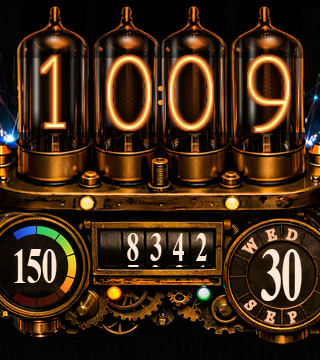
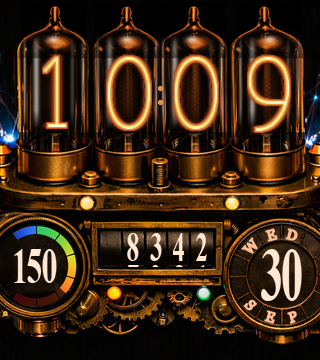
fix(ciq): every digit centred on its tube's electrode stem
"The 2nd '0' should center on the stem below it" - and measuring all four
against their stems showed two digits off, not one. The stem's bright cap is
the artwork feature that marks a tube's axis; measured on the frame in a narrow
band clear of the digit's own glow (y 152..160), its centre sits at 56.2 / 128.4
/ 195.6 / 266.9 against digits at 53 / 129 / 191 / 269.

So TIME_X goes 53 -> 55 (tube 1) and 191 -> 196 (tube 3, the '0' the user means
when the display reads 1006 - it was 5 px left of its stem). Tubes 2 and 4 stay.
After the move all four sit within 1.2 px of their stems, except tube 4 at 2.1 px
(inside the measurement's own resolution, the stem caps being flat-topped +-2 px).

SEP_X is now its OWN measured point (the wall-gap centre, screen x 160) instead of
the midpoint of the two digit centres: with the digits placed on their stems, a
stem-centred digit is not the geometric centre of the gap, so the old derivation
would have dragged the dots 3 px right when tube 3 moved.

Screenshots and the store upload set regenerated.

Changed region(s): [[0.5, 0.1528, 0.6875, 0.3667], [0.125, 0.1528, 0.2188, 0.3667]]

diff --git a/ciq/prepare_artwork.py b/ciq/prepare_artwork.py
@@ -49,17 +49,16 @@ OLD_SCALE = 0.3365  # the previous uniform fit; the fonts scale by ST/OLD_SCALE 
 # the source grid, so the nudge is 2 / ST = 4.3 source px and survives any later zoom. The separator
 # (SEP_Y) is derived from TIME_Y, so it lifts with them.
 _TUBE_Y_SRC = 255.6 - 2 / ST
-# Tube 2's digit sits 3 SCREEN px right of that measurement (user: "the 2nd '0' is also too far to
-# the left"). Two of the artwork's own features agree with the eye here where the earlier automatic
-# measurements did not: the tube's internal electrode stem is centred at screen x 128-129 and its wall
-# rims bracket 97..162 (centre 129.5), against the digit's old centre of 126. The hours/minutes
-# separator is DERIVED from these two tube centres (SEP_X in geometry()), so it moves right with them -
-# which is the same "slightly too far to the left" the user reported for the dots, and keeps the
-# separator on the hour|minute boundary by construction rather than by a second hand-nudge.
-_TUBE2_X_SRC = 439.8 + 3 / ST
+# The digits are centred on the ELECTRODE STEM under each tube - the artwork feature that actually
+# marks a tube's axis - rather than on the original centre measurement, which the user could see was
+# wrong ("the 2nd '0' should center on the stem below it"). Measured on the frame as the bright cap's
+# centre just below each digit (narrow band y 149..161): tube 1 stem 55 (digit was 53), tube 2 128.8
+# (digit 129), tube 3 196-197 (digit 191), tube 4 268 (digit 269). So tubes 1 and 3 move; 2 and 4 are
+# already within a pixel. Stored on the source grid, so the nudges survive any later zoom.
+_TUBE_X_SRC = {1: 282.3 + 2 / ST, 2: 439.8 + 3 / ST, 3: 579.5 + 5 / ST, 4: 745.9}
 POINTS = {
-    "tube1": (282.3, _TUBE_Y_SRC, "top"), "tube2": (_TUBE2_X_SRC, _TUBE_Y_SRC, "top"),
-    "tube3": (579.5, _TUBE_Y_SRC, "top"), "tube4": (745.9, _TUBE_Y_SRC, "top"),
+    "tube1": (_TUBE_X_SRC[1], _TUBE_Y_SRC, "top"), "tube2": (_TUBE_X_SRC[2], _TUBE_Y_SRC, "top"),
+    "tube3": (_TUBE_X_SRC[3], _TUBE_Y_SRC, "top"), "tube4": (_TUBE_X_SRC[4], _TUBE_Y_SRC, "top"),
     "steps1": (445.8, 600.3, "bot"), "steps2": (505.2, 591.4, "bot"),
     "steps3": (561.7, 591.4, "bot"), "steps4": (618.1, 591.4, "bot"),
 }
@@ -365,6 +364,9 @@ ARC_Y_SRC = (_unmap(0, 1, "top")[1], _unmap(0, 21, "top")[1])
 # (306, 135) right, the top-15 % blue-excess centroids in each side margin - and inverted through the
 # SHIPPING transform (_src_from_screen, not _unmap, which inverts the legacy layout C).
 SPARK_POINTS = [_src_from_screen(10, 138, "top"), _src_from_screen(306, 135, "top")]
+# The hours/minutes separator's x: measured on the shipping frame as the centre of the gap between the
+# two tubes' WALLS (their rims bracket screen x 148..168), at digit height.
+SEP_POINT = _src_from_screen(160, 95, "top")
 HR_DIAL_SRC = _unmap(29, 274, "bot")              # HR dial face centre
 HR_BAND_SRC = (34 / 0.43, 42 / 0.43)              # gauge band radii, in source px
 DATE_DIAL_SRC = (810, 658)                        # date dial centre (polar-unwrap fit)
@@ -414,9 +416,13 @@ def geometry(lay=SHIP):
     g["RING_CAP"] = RING_CAP_SRC * lay.sb
     g["TOP_K"] = lay.st / 0.49          # font scale vs the layout the font sizes were tuned on
     g["BOT_K"] = lay.sb / 0.43
-    # Hours/minutes separator: the colon sits in the tube 2 / tube 3 gap (the hour|minute
-    # boundary), exactly midway between their digit centres, at digit height.
-    g["SEP_X"] = (g["TIME_X"][1] + g["TIME_X"][2]) / 2.0
+    # Hours/minutes separator: the colon sits in the tube 2 / tube 3 gap at digit height. Its x is its
+    # OWN measured point (the centre of the gap between the two tubes' walls), not the midpoint of the
+    # digit centres: the digits are placed on their stems now, and a stem-centred digit is not
+    # necessarily the geometric centre of the gap - deriving the dots from the digits would drag them
+    # off the gap every time a digit is nudged.
+    sx, _sy = lay.map(*SEP_POINT, "top")
+    g["SEP_X"] = round(sx)
     g["SEP_Y"] = g["TIME_Y"]
     g["SEP_DY"] = 7
     g["SEP_R"] = 2
